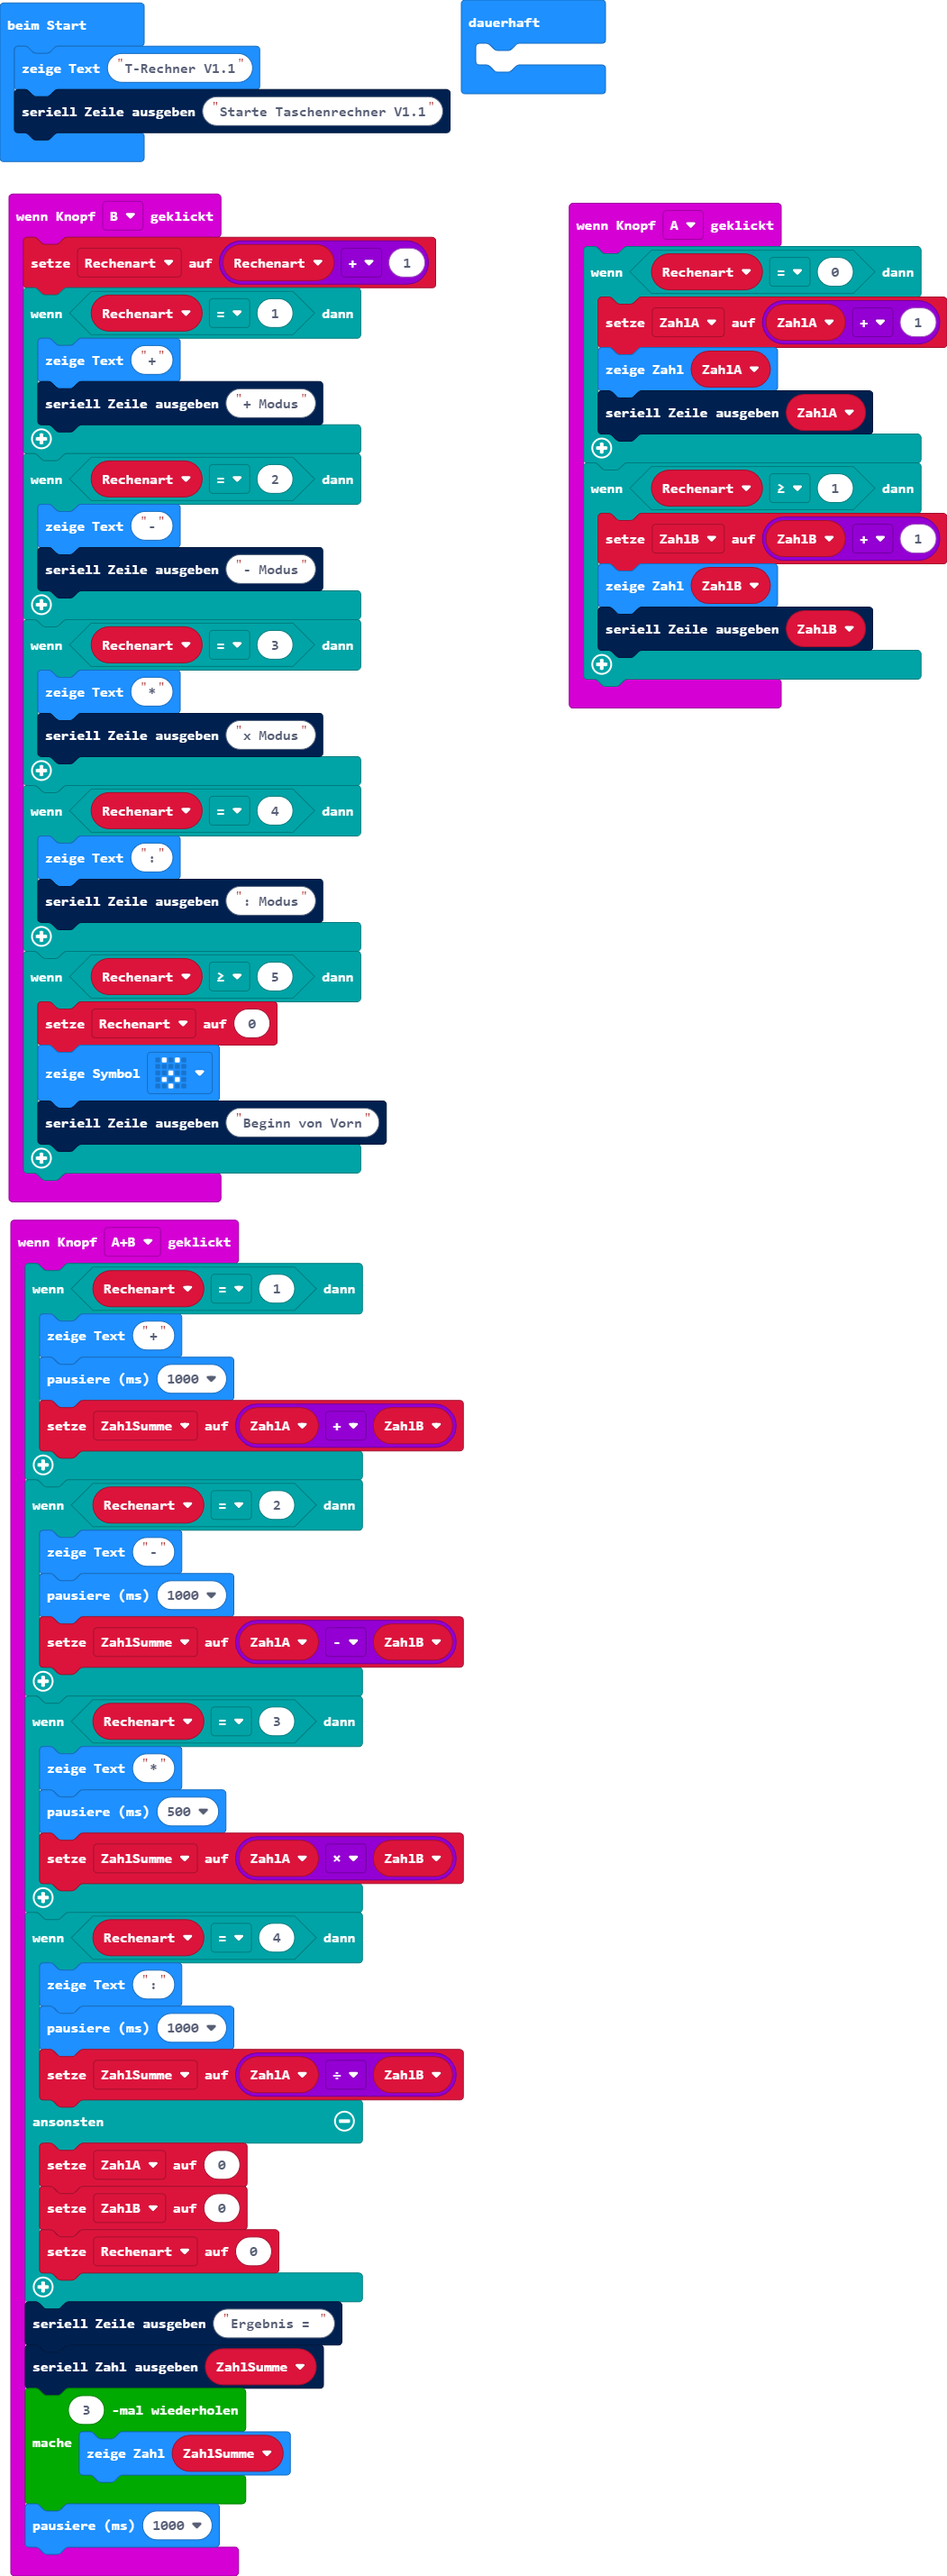
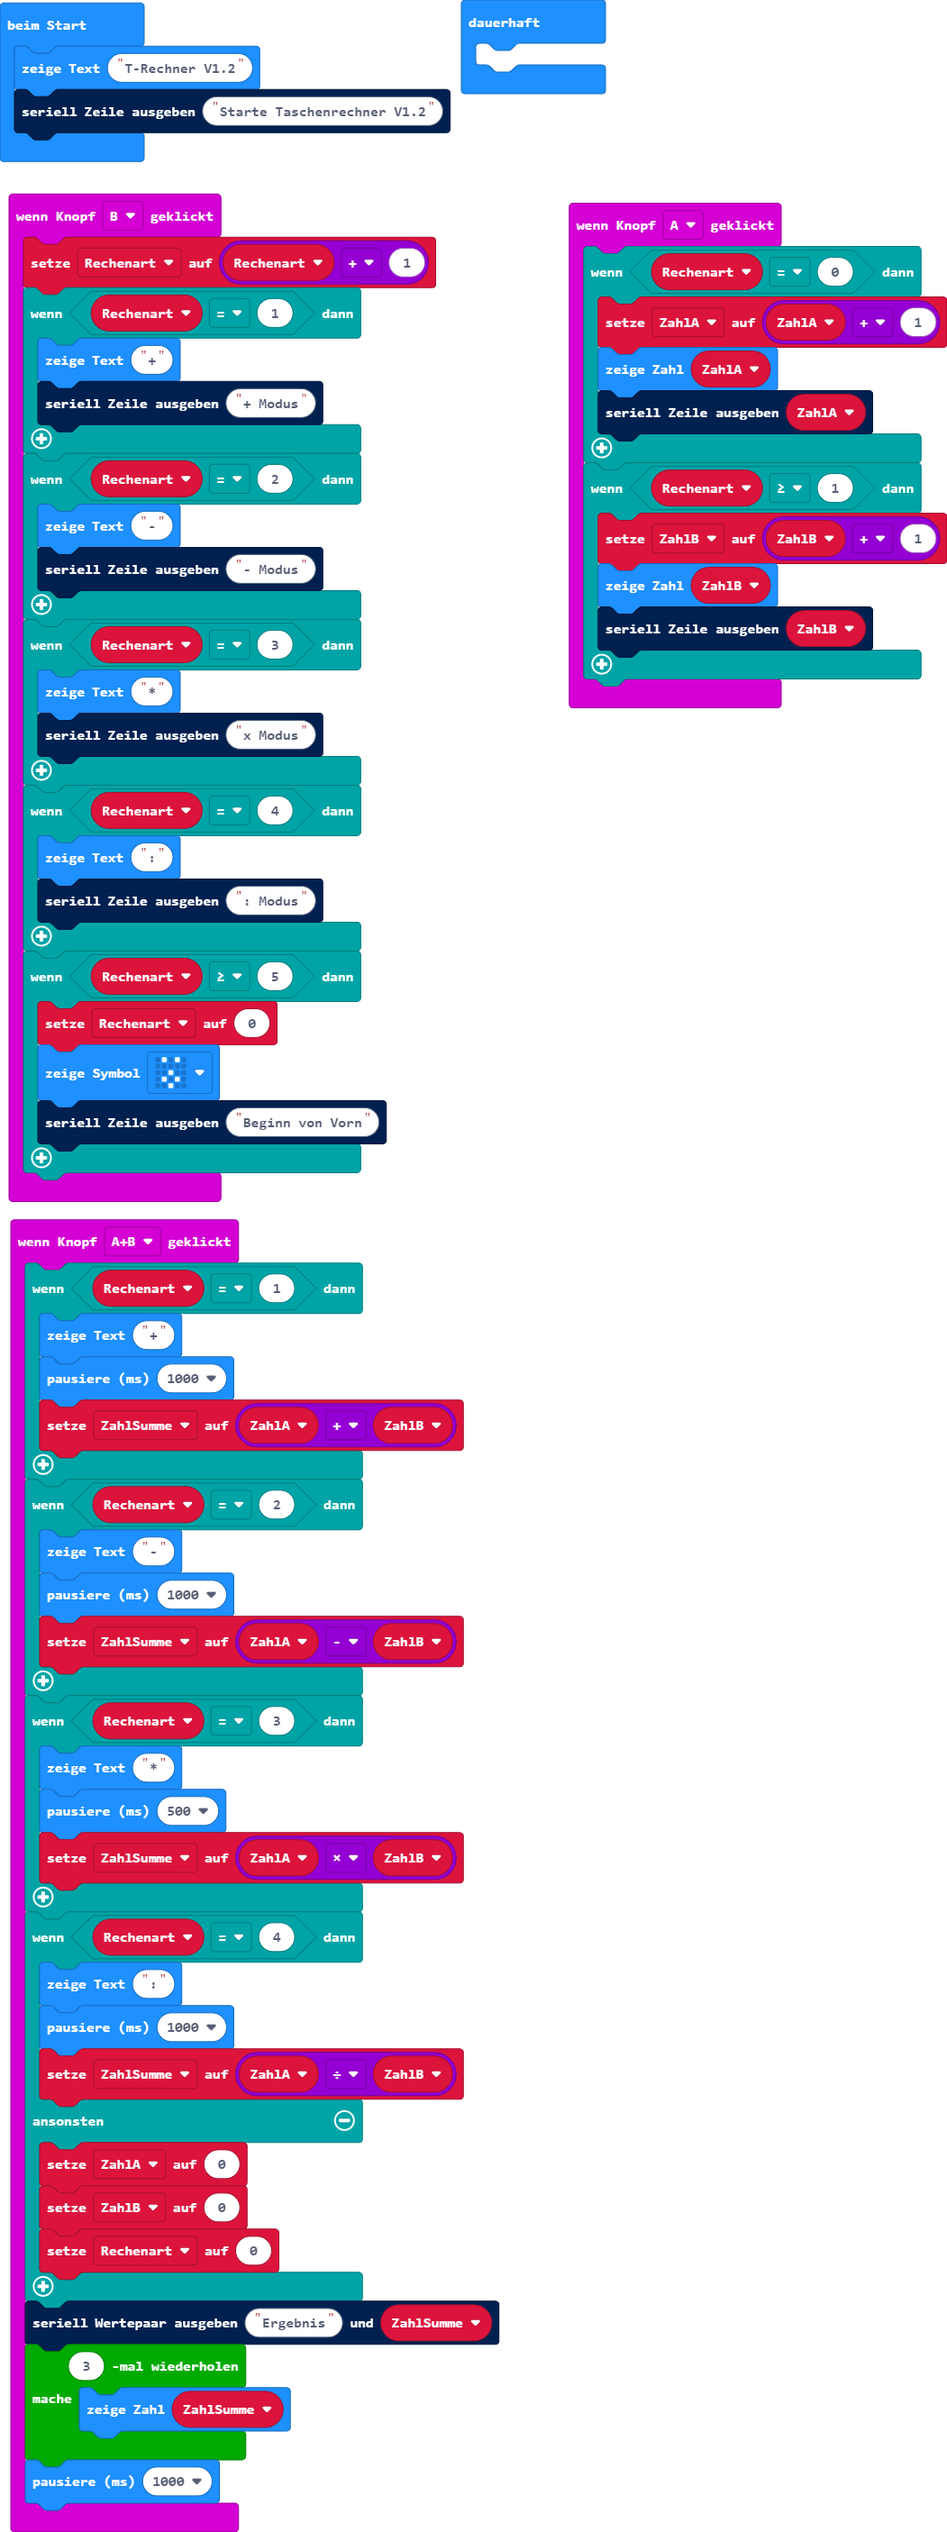
Serielle Ausgabe Ergebnis berichtigt

Changed region(s): [[0.0, 0.0, 0.548, 0.9907], [0.6089, 0.0619, 1.0, 0.2786], [0.5176, 0.0, 0.548, 0.031]]

diff --git a/main.ts b/main.ts
@@ -35,8 +35,7 @@ input.onButtonPressed(Button.AB, function () {
         ZahlB = 0
         Rechenart = 0
     }
-    serial.writeLine("Ergebnis = ")
-    serial.writeNumber(ZahlSumme)
+    serial.writeValue("Ergebnis", ZahlSumme)
     for (let index = 0; index < 3; index++) {
         basic.showNumber(ZahlSumme)
     }
@@ -70,8 +69,8 @@ let ZahlSumme = 0
 let ZahlB = 0
 let ZahlA = 0
 let Rechenart = 0
-basic.showString("T-Rechner V1.1")
-serial.writeLine("Starte Taschenrechner V1.1")
+basic.showString("T-Rechner V1.2")
+serial.writeLine("Starte Taschenrechner V1.2")
 basic.forever(function () {
 	
 })
